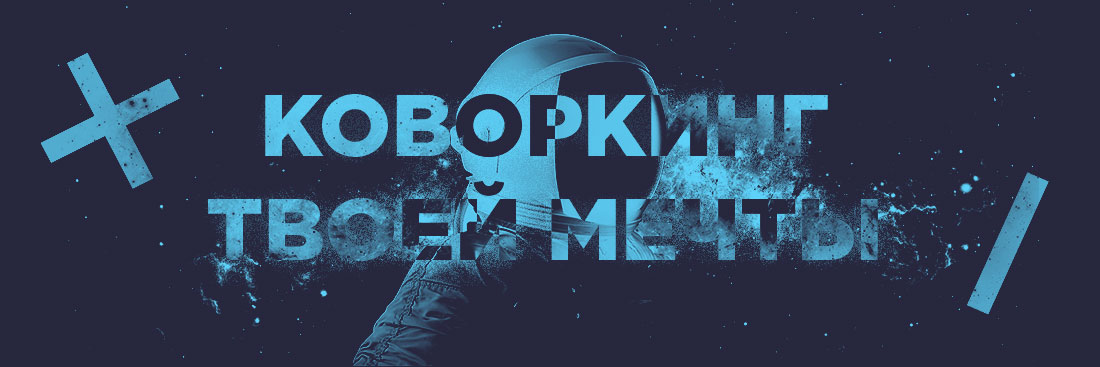
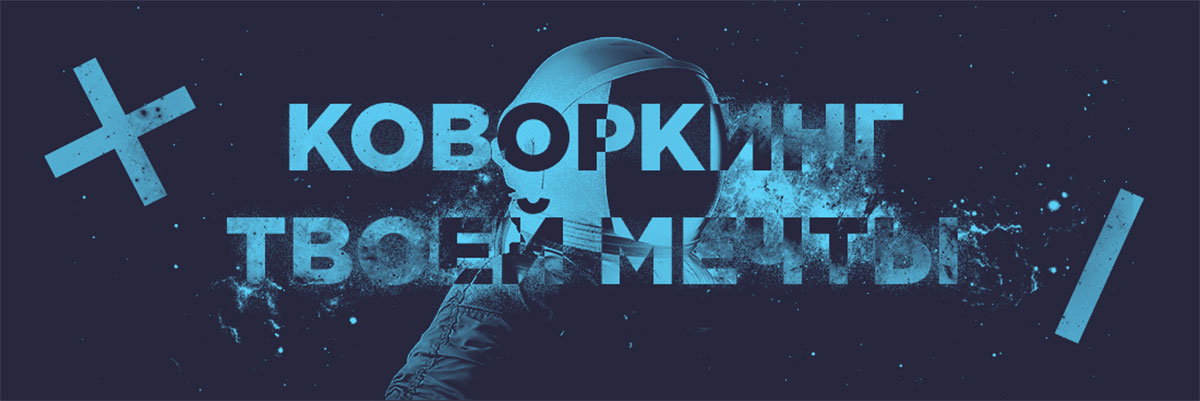
correct css

diff --git a/css/style.min.css b/css/style.min.css
@@ -1,1 +1,1 @@
-@import 'normalize.8.0.1.min.css';@font-face{font-family:'Roboto';src:url('../fonts/Roboto-Bold.woff2') format('woff2'),url('../fonts/Roboto-Bold.woff') format('woff');font-weight:bold;font-style:normal}@font-face{font-family:'OpenSans';src:url('../fonts/OpenSans-Bold.woff2') format('woff2'),url('../fonts/OpenSans-Bold.woff') format('woff');font-weight:bold;font-style:normal}@font-face{font-family:'Roboto';src:url('../fonts/Roboto-Light.woff2') format('woff2'),url('../fonts/Roboto-Light.woff') format('woff');font-weight:300;font-style:normal}@font-face{font-family:'GothamPro';src:url('../fonts/GothamPro-Light.woff2') format('woff2'),url('../fonts/GothamPro-Light.woff') format('woff');font-weight:300;font-style:normal}@font-face{font-family:'GothamPro';src:url('../fonts/GothamPro.woff2') format('woff2'),url('../fonts/GothamPro.woff') format('woff');font-weight:normal;font-style:normal}@font-face{font-family:'GothamPro';src:url('../fonts/GothamPro-LightItalic.woff2') format('woff2'),url('../fonts/GothamPro-LightItalic.woff') format('woff');font-weight:300;font-style:italic}@font-face{font-family:'GothamPro';src:url('../fonts/GothamPro-Bold.woff2') format('woff2'),url('../fonts/GothamPro-Bold.woff') format('woff');font-weight:bold;font-style:normal}html{-moz-osx-font-smoothing:grayscale;-webkit-font-smoothing:antialiased}body,ul,p,h1,h2,h3,h4{margin:0;padding:0}li{list-style-type:none}a{text-decoration:none;outline:none;color:inherit}.iconsheet{background-image:url(../image/spritesheet.png);background-repeat:no-repeat}html,body{height:100%}body{font-family:'GothamPro',sans-serif;font-size:14px;color:#221f1f}.wrapper{min-width:1200px;display:-webkit-box;display:flex;-webkit-box-orient:vertical;-webkit-box-direction:normal;flex-direction:column;height:100%}.container{width:1160px;margin:0 auto;padding-right:20px;padding-left:20px}.container-form{max-width:767px;padding:50px 70px;margin:0 auto;background:#f3f3f3;box-sizing:border-box}.header,.footer,.banner{background-color:#27273e}.header{padding-top:13px;padding-bottom:10px}.header>.container,.footer>.container{display:-webkit-box;display:flex;-webkit-box-pack:justify;justify-content:space-between}.center__block{display:-webkit-box;display:flex;-webkit-box-pack:justify;justify-content:space-between;padding-top:45px}.section-title{font-size:3.5em;font-weight:700;margin-bottom:50px;line-height:2rem}.sidebar{width:23.71%}.content{width:74.57%}.feedback{margin-bottom:50px}.footer{margin-top:auto;padding-top:13px;padding-bottom:15px}.intro{min-width:0;-webkit-box-pack:center;justify-content:center;-webkit-box-align:center;align-items:center;background:url(../image/intro_bg.jpg) center;background-size:cover}.intro__block{position:relative;text-align:center;opacity:0;-webkit-animation:intro .4s 1s ease;animation:intro .4s 1s ease;-webkit-animation-fill-mode:forwards;animation-fill-mode:forwards}.intro__logo{margin-bottom:30px}.intro__logo>img{display:block;width:100%;height:auto}.intro__link{display:block;padding:13px 20px;border:3px solid #ec1e79;color:#ec1e79;font-size:.8571em;letter-spacing:1px;font-weight:700;text-transform:uppercase;-webkit-transition:.25s all linear;transition:.25s all linear}.intro__link:hover{background:#ec1e79;color:#fff}@-webkit-keyframes intro{0%{opacity:.3;-webkit-transform:scale(.5, 0);transform:scale(.5, 0)}20%{-webkit-transform:scale(.8, .5);transform:scale(.8, .5)}40%{opacity:.6;-webkit-transform:rotate(-20deg);transform:rotate(-20deg)}60%{opacity:1;-webkit-transform:scale(1);transform:scale(1)}80%{-webkit-transform:rotate(5deg);transform:rotate(5deg)}100%{opacity:1;-webkit-transform:scale(1);transform:scale(1)}}@keyframes intro{0%{opacity:.3;-webkit-transform:scale(.5, 0);transform:scale(.5, 0)}20%{-webkit-transform:scale(.8, .5);transform:scale(.8, .5)}40%{opacity:.6;-webkit-transform:rotate(-20deg);transform:rotate(-20deg)}60%{opacity:1;-webkit-transform:scale(1);transform:scale(1)}80%{-webkit-transform:rotate(5deg);transform:rotate(5deg)}100%{opacity:1;-webkit-transform:scale(1);transform:scale(1)}}.contacts{font-style:normal;text-align:right;position:relative}.contacts__phone{color:#fff;font-size:1.49em;font-weight:700;display:block;line-height:1.4}.contacts__timework{position:relative;display:inline-block;color:rgba(236,30,121,0.7);font-family:'OpenSans',sans-serif;border-bottom:1px solid rgba(236,30,121,0.7);-webkit-transition:.2s all linear;transition:.2s all linear;cursor:pointer}.contacts__timework:hover{color:rgba(93,209,248,0.7);border-bottom:1px solid rgba(93,209,248,0.7)}.contacts__timework:hover .contacts__popup{right:0;opacity:1}.contacts__popup{opacity:0;position:absolute;top:100%;right:9999px;-webkit-transition:.4s opacity ease;transition:.4s opacity ease;cursor:default}.contacts__popup::before{content:'';display:block;height:26px}.contacts__popup-block{width:125px;background:#ffffff;z-index:5;padding:15px 9px;border-radius:3px;text-align:left;box-shadow:2.5px 4.3px 5px rgba(0,0,0,0.2)}.contacts__popup-block::before{content:'';display:inline-block;position:absolute;top:13px;right:0;width:0;height:0;border-style:solid;border-width:0 13px 14px 13px;border-radius:3px;border-color:transparent transparent #ffffff transparent}.contacts__popup-days{color:#ec1e79;font-weight:700;margin-bottom:10px}.contacts__popup-dinner{color:#221f1f}.banner__content{height:367px;background:url(../image/banner.jpg) center}.menu{padding-top:9px;margin-bottom:30px}.menu__list{display:-webkit-box;display:flex}.menu__item{color:#ec1e79;font-family:'GothamPro',sans-serif;font-size:.8571em;font-weight:700;text-transform:uppercase;margin-left:90px}.menu__item:first-child{margin-left:0}.menu__item.active>.menu__link{color:#221f1f;pointer-events:none}.menu__link{padding:5px 0 5px 40px;letter-spacing:1px;-webkit-transition:.3s color ease;transition:.3s color ease;background-image:url(../image/spritesheet.png);background-repeat:no-repeat}.menu__link:hover{color:#221f1f}.menu__link--triangle{background-position:-10px -212px}.menu__link--star{background-position:-10px -99px}.menu__link--wallet{background-position:-10px -373px}.menu__item.active>.menu__link--triangle,.menu__link--triangle:hover{background-position:-10px -247px}.menu__item.active>.menu__link--star,.menu__link--star:hover{background-position:-10px -137px}.menu__item.active>.menu__link--wallet,.menu__link--wallet:hover{background-position:-10px -409px}.menu--main .menu__item{color:#fff}.menu--main .menu__item.active>.menu__link{color:#ec1e79}.menu--main .menu__link:hover{color:#ec1e79}.menu--main .menu__link--triangle{background-position:-10px -282px}.menu--main .menu__link--star{background-position:-10px -175px}.menu--main .menu__link--wallet{background-position:-10px -445px}.menu--main .menu__item.active>.menu__link--triangle,.menu--main .menu__link--triangle:hover{background-position:-10px -212px}.menu--main .menu__item.active>.menu__link--star,.menu--main .menu__link--star:hover{background-position:-10px -99px}.menu--main .menu__item.active>.menu__link--wallet,.menu--main .menu__link--wallet:hover{background-position:-10px -373px}.features__list{display:-webkit-box;display:flex}.features__item{max-width:225px;padding:25px 20px 0;margin-bottom:80px;border:1px solid #e8e9ed}.features__head{text-transform:uppercase;text-align:center;margin-bottom:30px}.features__img{width:68px;height:68px;border-radius:50%;margin:0 auto;margin-bottom:35px;background:#27273e;overflow:hidden;display:-webkit-box;display:flex;-webkit-box-pack:center;justify-content:center;-webkit-box-align:center;align-items:center}.features__title{color:#212121;font-size:.7857em;font-weight:700;text-transform:uppercase;text-align:center;letter-spacing:3px;margin-bottom:30px}.features__subs,.features__plus{font-size:1.286em;margin-bottom:18px}.features__subs{text-align:center;line-height:1.5}.features__plus::before{content:"\2022";color:#c36;margin-right:30px}.review__item{display:-webkit-box;display:flex;-webkit-box-pack:justify;justify-content:space-between;margin-bottom:60px}.review__img{width:175px;height:175px;border-radius:50%;margin-right:20px;overflow:hidden;background:url(../image/comment0.jpg) center}.review__img>img{display:block;width:100%;height:auto}.review__block{width:75.14%;font-family:'Roboto',sans-serif}.review__date{display:block;color:#656464;font-size:1em;font-weight:300;margin-bottom:10px}.review__title,.review__text{color:#221f1f;font-size:1.286em}.review__title{font-weight:700;margin-bottom:15px}.review__text{font-weight:300;line-height:1.8}.pagination{display:-webkit-box;display:flex;-webkit-box-pack:center;justify-content:center;text-align:center;margin:0 auto 70px;font-family:'Roboto',sans-serif}.pagination__text{color:#656464;font-weight:300;padding:9px 10px}.pagination__navbar{color:#221f1f}.pagination__list,.pagination__item{display:inline-block}.pagination__control,.pagination__link{font-weight:700}.pagination__control{font-size:1.571em;padding:5px 10px}.pagination__control.disabled{opacity:.3;pointer-events:none}.pagination__list{font-size:0}.pagination__item{font-size:1rem}.pagination__item.active{background-color:#27273e;border-radius:3px;color:#ec1e79}.pagination__item.active>.pagination__link{pointer-events:none}.pagination__link{display:block;padding:3px 8px}.pagination__link:hover{color:#ec1e79}.info{color:#fff;font-weight:300}.info__text{width:260px;line-height:1.4}.info__link{font-weight:700;-webkit-transition:.2s all linear;transition:.2s all linear}.info__link:hover{color:#ec1e79}.info__link--school{border-bottom:1px solid rgba(255,255,255,0.3)}.info__link--school:hover{border-bottom:1px solid rgba(236,30,121,0.3)}.social{text-align:center}.social__title{margin-bottom:7px}.social__item{display:inline-block;margin-left:15px;border-radius:50%;-webkit-transition:.2s all linear;transition:.2s all linear}.social__item:first-child{margin-left:0}.social__item:hover{background:#ec1e79}.social__link{display:block;width:20px;height:20px;background-image:url(../image/spritesheet.png);background-repeat:no-repeat}.social__link--vk{background-position:-6px -342px}.social__link--fb{background-position:-3px -36px}.social__link--gplus{background-position:-7px -66px}.social__link--tw{background-position:-6px -314px}.social__link--email{background-position:-6px -4px}.sentence{font-size:1.286em;color:#fff;margin-bottom:55px;background:url(../image/discount_bg.jpg) repeat;padding:40px 10px;text-align:center}.sentence__text{font-weight:300;line-height:1.8}.sentence__discount{color:#ec1e79;font-weight:700}.feedback-form__row{display:-webkit-box;display:flex;-webkit-box-pack:justify;justify-content:space-between;-webkit-box-align:end;align-items:flex-end;margin-bottom:20px}.feedback-form__item{display:block;-webkit-box-flex:1;flex:1;margin-right:20px}.feedback-form__item:last-child{margin-right:0}.feedback-form__head{display:block;margin-bottom:10px}.feedback-form__input{width:100%;outline:none;background-color:white;border:1px solid transparent;border-radius:3px;box-sizing:border-box;padding:10px}.feedback-form__input::-webkit-input-placeholder{opacity:.5}.feedback-form__input:-ms-input-placeholder{opacity:.5}.feedback-form__input::placeholder{opacity:.5}.feedback-form__input--textarea{resize:none;height:90px}.feedback-form__input:focus{border:1px solid #ec1e79}.feedback-form__radio-block{display:-webkit-box;display:flex}.feedback-form__radio-item{width:55px;margin-right:15px;display:-webkit-box;display:flex;justify-content:space-around;-webkit-box-align:center;align-items:center}.feedback-form__radio-input{position:absolute;z-index:-1;opacity:0}.feedback-form__radio-input:checked+.feedback-form__radio-custom{border:1px solid #ec1e79}.feedback-form__radio-input:checked+.feedback-form__radio-custom>.feedback-form__radio-center{background:#ec1e79}.feedback-form__radio-custom{position:relative;width:18px;height:18px;border-radius:50%;border:1px solid #c9c9c9}.feedback-form__radio-custom>.feedback-form__radio-center{position:absolute;top:5px;left:5px;display:block;width:8px;height:8px;border-radius:50%}.feedback-form__btn{padding:16px 21px;background-color:#27273e;border-radius:3px;color:#fff;outline:none;border:0;cursor:pointer;font-size:.8571em;font-weight:700;letter-spacing:2px;text-transform:uppercase;-webkit-transition:.15s background-color linear;transition:.15s background-color linear}.feedback-form__btn:hover{background-color:#ec1e79}.feedback-form__btn:active{box-shadow:inset 0 0 5px #5e5e5e}.tariffs{margin-bottom:25px}.tariffs__block{display:-webkit-box;display:flex;flex-wrap:wrap;-webkit-box-pack:justify;justify-content:space-between}.tariffs__plane{width:273px;text-align:center;margin:0 0 45px}.tariffs__img{position:relative;width:252px;height:155px;border-radius:3px;overflow:hidden;margin:0 auto 25px}.tariffs__img>img{width:100%;height:auto}.tariffs__overlay{display:-webkit-box;display:flex;-webkit-box-pack:center;justify-content:center;-webkit-box-align:center;align-items:center;padding:10px;position:absolute;top:0;bottom:0;left:0;right:0;border-radius:3px;opacity:.85;background-color:#27273e;color:#fff;-webkit-transition:.25s opacity linear;transition:.25s opacity linear}.tariffs__overlay:hover{opacity:0}.tariffs__title{font-size:1.714em;font-weight:700;text-transform:uppercase;line-height:1.4em;color:#5dd1f8}.tariffs__vip{display:block;color:#ec1e79}.tariffs__head{font-size:1.286em;font-weight:700;margin-bottom:20px}.tariffs__text{line-height:1.4em}.partners{margin-bottom:40px;border:1px solid #e8e9ed;padding:30px 60px 0}.partners__head{text-transform:uppercase;margin-bottom:30px;text-align:center}.partners__list{display:-webkit-box;display:flex;flex-wrap:wrap;-webkit-box-align:center;align-items:center}.partners__item{margin-bottom:50px;width:290px}.partners__link{-webkit-filter:grayscale(1);filter:grayscale(1);-webkit-transition:.25s all linear;transition:.25s all linear}.partners__link:hover{-webkit-filter:grayscale(0);filter:grayscale(0)}
+@import 'normalize.8.0.1.min.css';@font-face{font-family:'Roboto';src:url('../fonts/Roboto-Bold.woff2') format('woff2'),url('../fonts/Roboto-Bold.woff') format('woff');font-weight:bold;font-style:normal}@font-face{font-family:'OpenSans';src:url('../fonts/OpenSans-Bold.woff2') format('woff2'),url('../fonts/OpenSans-Bold.woff') format('woff');font-weight:bold;font-style:normal}@font-face{font-family:'Roboto';src:url('../fonts/Roboto-Light.woff2') format('woff2'),url('../fonts/Roboto-Light.woff') format('woff');font-weight:300;font-style:normal}@font-face{font-family:'GothamPro';src:url('../fonts/GothamPro-Light.woff2') format('woff2'),url('../fonts/GothamPro-Light.woff') format('woff');font-weight:300;font-style:normal}@font-face{font-family:'GothamPro';src:url('../fonts/GothamPro.woff2') format('woff2'),url('../fonts/GothamPro.woff') format('woff');font-weight:normal;font-style:normal}@font-face{font-family:'GothamPro';src:url('../fonts/GothamPro-LightItalic.woff2') format('woff2'),url('../fonts/GothamPro-LightItalic.woff') format('woff');font-weight:300;font-style:italic}@font-face{font-family:'GothamPro';src:url('../fonts/GothamPro-Bold.woff2') format('woff2'),url('../fonts/GothamPro-Bold.woff') format('woff');font-weight:bold;font-style:normal}html{-moz-osx-font-smoothing:grayscale;-webkit-font-smoothing:antialiased}body,ul,p,h1,h2,h3,h4{margin:0;padding:0}li{list-style-type:none}a{text-decoration:none;outline:none;color:inherit}.iconsheet{background-image:url(../image/spritesheet.png);background-repeat:no-repeat}html,body{height:100%}body{font-family:'GothamPro',sans-serif;font-size:14px;color:#221f1f}.wrapper{min-width:1200px;display:-webkit-box;display:flex;-webkit-box-orient:vertical;-webkit-box-direction:normal;flex-direction:column;height:100%}.container{width:1160px;margin:0 auto;padding-right:20px;padding-left:20px}.container-form{max-width:767px;padding:50px 70px;margin:0 auto;background:#f3f3f3;box-sizing:border-box}.header,.footer,.banner{background-color:#27273e}.header{padding-top:13px;padding-bottom:10px}.header>.container,.footer>.container{display:-webkit-box;display:flex;-webkit-box-pack:justify;justify-content:space-between;-webkit-box-align:center;align-items:center}.center__block{display:-webkit-box;display:flex;-webkit-box-pack:justify;justify-content:space-between;padding-top:35px}.section-title{font-size:3.5em;font-weight:700;margin-bottom:82px;line-height:2rem}.section-title--form{margin-bottom:45px}.sidebar{width:23.71%}.content{width:74.57%}.feedback{margin-bottom:26px}.footer{margin-top:auto;padding-top:10px;padding-bottom:10px}.intro{min-width:0;-webkit-box-pack:center;justify-content:center;-webkit-box-align:center;align-items:center;background:url(../image/intro_bg.jpg) center;background-size:cover}.intro__block{position:relative;text-align:center;opacity:0;-webkit-animation:intro .4s 1s ease;animation:intro .4s 1s ease;-webkit-animation-fill-mode:forwards;animation-fill-mode:forwards}.intro__logo{margin-bottom:30px}.intro__logo>img{display:block;width:100%;height:auto}.intro__link{display:block;padding:13px 20px;border:3px solid #ec1e79;color:#ec1e79;font-size:.8571em;letter-spacing:1px;font-weight:700;text-transform:uppercase;-webkit-transition:.25s all linear;transition:.25s all linear}.intro__link:hover{background:#ec1e79;color:#fff}@-webkit-keyframes intro{0%{opacity:.3;-webkit-transform:scale(.5, 0);transform:scale(.5, 0)}20%{-webkit-transform:scale(.8, .5);transform:scale(.8, .5)}40%{opacity:.6;-webkit-transform:rotate(-20deg);transform:rotate(-20deg)}60%{opacity:1;-webkit-transform:scale(1);transform:scale(1)}80%{-webkit-transform:rotate(5deg);transform:rotate(5deg)}100%{opacity:1;-webkit-transform:scale(1);transform:scale(1)}}@keyframes intro{0%{opacity:.3;-webkit-transform:scale(.5, 0);transform:scale(.5, 0)}20%{-webkit-transform:scale(.8, .5);transform:scale(.8, .5)}40%{opacity:.6;-webkit-transform:rotate(-20deg);transform:rotate(-20deg)}60%{opacity:1;-webkit-transform:scale(1);transform:scale(1)}80%{-webkit-transform:rotate(5deg);transform:rotate(5deg)}100%{opacity:1;-webkit-transform:scale(1);transform:scale(1)}}.contacts{font-style:normal;text-align:right;position:relative}.contacts__phone{color:#fff;font-size:1.49em;font-weight:700;display:block;line-height:1.4}.contacts__timework{position:relative;display:inline-block;color:rgba(236,30,121,0.7);font-family:'OpenSans',sans-serif;border-bottom:1px solid rgba(236,30,121,0.7);-webkit-transition:.2s all linear;transition:.2s all linear;cursor:pointer}.contacts__timework:hover{color:rgba(93,209,248,0.7);border-bottom:1px solid rgba(93,209,248,0.7)}.contacts__timework:hover .contacts__popup{right:0;opacity:1}.contacts__popup{opacity:0;position:absolute;top:100%;right:9999px;-webkit-transition:.4s opacity ease;transition:.4s opacity ease;cursor:default}.contacts__popup::before{content:'';display:block;height:26px}.contacts__popup-block{width:125px;background:#ffffff;z-index:5;padding:15px 9px;border-radius:3px;text-align:left;box-shadow:2.5px 4.3px 5px rgba(0,0,0,0.2)}.contacts__popup-block::before{content:'';display:inline-block;position:absolute;top:13px;right:0;width:0;height:0;border-style:solid;border-width:0 13px 14px 13px;border-radius:3px;border-color:transparent transparent #ffffff transparent}.contacts__popup-days{color:#ec1e79;font-weight:700;margin-bottom:10px}.contacts__popup-dinner{color:#221f1f}.banner__content{height:385px;background:url(../image/banner.jpg) center}.menu{padding-top:9px;margin-bottom:35px}.menu__list{display:-webkit-box;display:flex}.menu__item{color:#ec1e79;font-family:'GothamPro',sans-serif;font-size:.8571em;font-weight:700;text-transform:uppercase;margin-left:90px}.menu__item:first-child{margin-left:0}.menu__item.active>.menu__link{color:#221f1f;pointer-events:none}.menu__link{padding:5px 0 5px 40px;letter-spacing:1px;-webkit-transition:.3s color ease;transition:.3s color ease;background-image:url(../image/spritesheet.png);background-repeat:no-repeat}.menu__link:hover{color:#221f1f}.menu__link--triangle{background-position:-10px -212px}.menu__link--star{background-position:-10px -99px}.menu__link--wallet{background-position:-10px -373px}.menu__item.active>.menu__link--triangle,.menu__link--triangle:hover{background-position:-10px -247px}.menu__item.active>.menu__link--star,.menu__link--star:hover{background-position:-10px -137px}.menu__item.active>.menu__link--wallet,.menu__link--wallet:hover{background-position:-10px -409px}.menu--main .menu__item{color:#fff}.menu--main .menu__item.active>.menu__link{color:#ec1e79}.menu--main .menu__link:hover{color:#ec1e79}.menu--main .menu__link--triangle{background-position:-10px -282px}.menu--main .menu__link--star{background-position:-10px -175px}.menu--main .menu__link--wallet{background-position:-10px -445px}.menu--main .menu__item.active>.menu__link--triangle,.menu--main .menu__link--triangle:hover{background-position:-10px -212px}.menu--main .menu__item.active>.menu__link--star,.menu--main .menu__link--star:hover{background-position:-10px -99px}.menu--main .menu__item.active>.menu__link--wallet,.menu--main .menu__link--wallet:hover{background-position:-10px -373px}.features__list{display:-webkit-box;display:flex}.features__item{max-width:225px;padding:25px 20px 0;margin-bottom:40px;border:1px solid #e8e9ed}.features__head{text-transform:uppercase;text-align:center;margin-bottom:33px;letter-spacing:1px}.features__img{width:68px;height:68px;border-radius:50%;margin:0 auto;margin-bottom:35px;background:#27273e;overflow:hidden;display:-webkit-box;display:flex;-webkit-box-pack:center;justify-content:center;-webkit-box-align:center;align-items:center}.features__title{color:#212121;font-size:.7857em;font-weight:700;text-transform:uppercase;text-align:center;letter-spacing:3px;margin-bottom:20px}.features__subs,.features__plus{font-size:1.286em}.features__subs{text-align:center;line-height:1.6;margin-bottom:10px}.features__sublist{margin-left:37px}.features__plus{margin-bottom:14px}.features__plus::before{content:"\2022";color:#c36;margin-right:30px}.review__item{display:-webkit-box;display:flex;-webkit-box-pack:justify;justify-content:space-between;margin-bottom:48px}.review__item:last-child{margin-bottom:35px}.review__img{width:175px;height:175px;border-radius:50%;margin-right:20px;overflow:hidden;background:url(../image/comment0.jpg) center}.review__img>img{display:block;width:100%;height:auto}.review__block{width:77%;font-family:'Roboto',sans-serif}.review__date{display:block;color:#656464;font-size:1em;font-weight:300;margin-bottom:8px}.review__title,.review__text{color:#221f1f;font-size:1.286em}.review__title{font-weight:700;margin-bottom:8px}.review__text{font-weight:300;line-height:1.7}.pagination{display:-webkit-box;display:flex;-webkit-box-pack:center;justify-content:center;text-align:center;margin:0 auto 51px;font-family:'Roboto',sans-serif}.pagination__text{color:#656464;font-weight:300;padding:9px 10px}.pagination__navbar{color:#221f1f}.pagination__list,.pagination__item{display:inline-block}.pagination__control,.pagination__link{font-weight:700}.pagination__control{font-size:1.571em;padding:5px 10px}.pagination__control.disabled{opacity:.3;pointer-events:none}.pagination__list{font-size:0}.pagination__item{font-size:1rem}.pagination__item.active{background-color:#27273e;border-radius:3px;color:#ec1e79}.pagination__item.active>.pagination__link{pointer-events:none}.pagination__link{display:block;padding:3px 8px}.pagination__link:hover{color:#ec1e79}.info{color:#fff;font-weight:300}.info__text{width:260px;line-height:1.4}.info__link{font-weight:700;-webkit-transition:.2s all linear;transition:.2s all linear}.info__link:hover{color:#ec1e79}.info__link--school{border-bottom:1px solid rgba(255,255,255,0.3)}.info__link--school:hover{border-bottom:1px solid rgba(236,30,121,0.3)}.social{text-align:center}.social__title{margin-bottom:7px;letter-spacing:-1.1px}.social__item{display:inline-block;margin-left:6px;border-radius:50%;-webkit-transition:.2s all linear;transition:.2s all linear}.social__item:first-child{margin-left:0}.social__item:hover{background:#ec1e79}.social__link{display:block;width:20px;height:20px;background-image:url(../image/spritesheet.png);background-repeat:no-repeat}.social__link--vk{background-position:-6px -342px}.social__link--fb{background-position:-3px -36px}.social__link--gplus{background-position:-7px -66px}.social__link--tw{background-position:-6px -314px}.social__link--email{background-position:-6px -4px}.sentence{font-size:1.286em;color:#fff;margin-bottom:24px;background:url(../image/discount_bg.jpg) repeat;padding:26px 10px;text-align:center}.sentence__text{font-weight:300;line-height:1.8}.sentence__discount{color:#ec1e79;font-weight:700}.feedback-form__row{display:-webkit-box;display:flex;-webkit-box-pack:justify;justify-content:space-between;-webkit-box-align:end;align-items:flex-end;margin-bottom:20px}.feedback-form__item{display:block;-webkit-box-flex:1;flex:1;margin-right:20px}.feedback-form__item:last-child{margin-right:0}.feedback-form__head{display:block;margin-bottom:10px}.feedback-form__input{width:100%;outline:none;background-color:white;border:1px solid transparent;border-radius:3px;box-sizing:border-box;padding:10px}.feedback-form__input::-webkit-input-placeholder{opacity:.5}.feedback-form__input:-ms-input-placeholder{opacity:.5}.feedback-form__input::placeholder{opacity:.5}.feedback-form__input--textarea{resize:none;height:90px}.feedback-form__input:focus{border:1px solid #ec1e79}.feedback-form__radio-block{display:-webkit-box;display:flex}.feedback-form__radio-item{width:55px;margin-right:15px;display:-webkit-box;display:flex;justify-content:space-around;-webkit-box-align:center;align-items:center}.feedback-form__radio-input{position:absolute;z-index:-1;opacity:0}.feedback-form__radio-input:checked+.feedback-form__radio-custom{border:1px solid #ec1e79}.feedback-form__radio-input:checked+.feedback-form__radio-custom>.feedback-form__radio-center{background:#ec1e79}.feedback-form__radio-custom{position:relative;width:18px;height:18px;border-radius:50%;border:1px solid #c9c9c9}.feedback-form__radio-custom>.feedback-form__radio-center{position:absolute;top:5px;left:5px;display:block;width:8px;height:8px;border-radius:50%}.feedback-form__btn{padding:16px 21px;background-color:#27273e;border-radius:3px;color:#fff;outline:none;border:0;cursor:pointer;font-size:.8571em;font-weight:700;letter-spacing:2px;text-transform:uppercase;-webkit-transition:.15s background-color linear;transition:.15s background-color linear}.feedback-form__btn:hover{background-color:#ec1e79}.feedback-form__btn:active{box-shadow:inset 0 0 5px #5e5e5e}.tariffs{margin-bottom:25px}.tariffs__block{display:-webkit-box;display:flex;flex-wrap:wrap;-webkit-box-pack:justify;justify-content:space-between}.tariffs__plane{width:273px;text-align:center;margin:0 0 45px}.tariffs__img{position:relative;width:273px;height:155px;border-radius:3px;overflow:hidden;margin:0 auto 25px}.tariffs__img>img{width:100%;height:auto}.tariffs__overlay{display:-webkit-box;display:flex;-webkit-box-pack:center;justify-content:center;-webkit-box-align:center;align-items:center;padding:10px;position:absolute;top:0;bottom:0;left:0;right:0;border-radius:3px;opacity:.85;background-color:#27273e;color:#fff;-webkit-transition:.25s opacity linear;transition:.25s opacity linear}.tariffs__overlay:hover{opacity:0}.tariffs__title{font-size:1.714em;font-weight:700;text-transform:uppercase;line-height:1.4em;color:#5dd1f8}.tariffs__vip{display:block;color:#ec1e79}.tariffs__head{font-size:1.286em;font-weight:700;margin-bottom:20px}.tariffs__text{line-height:1.4em}.partners{margin-bottom:20px;border:1px solid #e8e9ed;padding:30px 60px 0}.partners__head{text-transform:uppercase;margin-bottom:30px;text-align:center}.partners__list{display:-webkit-box;display:flex;flex-wrap:wrap;-webkit-box-pack:center;justify-content:center;-webkit-box-align:center;align-items:center}.partners__item{margin-bottom:35px}.partners__link{-webkit-filter:grayscale(1);filter:grayscale(1);-webkit-transition:.25s all linear;transition:.25s all linear}.partners__link:hover{-webkit-filter:grayscale(0);filter:grayscale(0)}

diff --git a/less/_features.less b/less/_features.less
@@ -6,14 +6,15 @@
 	&__item {
 		max-width: 225px;
 		padding: 25px 20px 0;
-		margin-bottom: 80px;
+		margin-bottom: 40px;
 		border: 1px solid #e8e9ed;
 	}
 
 	&__head {
 		text-transform: uppercase;
 		text-align: center;
-		margin-bottom: 30px;
+		margin-bottom: 33px;
+		letter-spacing: 1px;
 	}
 
 	&__img {
@@ -36,23 +37,31 @@
 		text-transform: uppercase;
 		text-align: center;
 		letter-spacing: 3px;
-		margin-bottom: 30px;
+		margin-bottom: 20px;
 	}
 
 	&__subs,
 	&__plus {
 		font-size: 1.286em; // 18px
-		margin-bottom: 18px;
 	}
 
 	&__subs {
 		text-align: center;
-		line-height: 1.5;
+		line-height: 1.6;
+		margin-bottom: 10px;
 	}
 
-	&__plus::before {
-		content: "\2022";
-		color: #c36;
-		margin-right: 30px;
+	&__sublist {
+		margin-left: 37px;
+	}
+
+	&__plus {
+		margin-bottom: 14px;
+
+		&::before {
+			content: "\2022";
+			color: #c36;
+			margin-right: 30px;
+		}
 	}
 }

diff --git a/main.html b/main.html
@@ -103,7 +103,7 @@
 								<p class="review__text">
 									Ключевым технологическим партнером GrowUp является дата-центр Миран, расположенный всего лишь в 500
 									метрах от здания, а значит, скорость интернета будет стабильной в любое время суток. Коворкинг
-									работает в формате 24/7. Используйте шкаф для хранения личных вещей.
+									работает в формате 24/7.
 								</p>
 							</div><!-- .review__block -->
 						</li>

diff --git a/less/_review.less b/less/_review.less
@@ -2,7 +2,11 @@
 	&__item {
 		display: flex;
 		justify-content: space-between;
-		margin-bottom: 60px;
+		margin-bottom: 48px;
+
+		&:last-child {
+			margin-bottom: 35px;
+		}
 	}
 
 	&__img {
@@ -21,7 +25,7 @@
 	}
 
 	&__block {
-		width: 75.14%; // 650px
+		width: 77%;
 		font-family: 'Roboto', sans-serif;
 	}
 
@@ -30,7 +34,7 @@
 		color: #656464;
 		font-size: 1em; // 14px
 		font-weight: 300;
-		margin-bottom: 10px;
+		margin-bottom: 8px;
 	}
 
 	&__title,
@@ -41,11 +45,11 @@
 
 	&__title {
 		font-weight: 700;
-		margin-bottom: 15px;
+		margin-bottom: 8px;
 	}
 
 	&__text {
 		font-weight: 300;
-		line-height: 1.8;
+		line-height: 1.7;
 	}
 }

diff --git a/less/_base.less b/less/_base.less
@@ -44,19 +44,24 @@ body {
 .footer > .container {
 	display: flex;
 	justify-content: space-between;
+	align-items: center;
 }
 
 .center__block {
 	display: flex;
 	justify-content: space-between;
-	padding-top: 45px;
+	padding-top: 35px;
 }
 
 .section-title {
 	font-size: 3.5em; // 49px
 	font-weight: 700;
-	margin-bottom: 50px;
+	margin-bottom: 82px;
 	line-height: 2rem;
+
+	&--form {
+		margin-bottom: 45px;
+	}
 }
 
 .sidebar {
@@ -68,11 +73,11 @@ body {
 }
 
 .feedback {
-	margin-bottom: 50px;
+	margin-bottom: 26px;
 }
 
 .footer {
 	margin-top: auto;
-	padding-top: 13px;
-	padding-bottom: 15px;
+	padding-top: 10px;
+	padding-bottom: 10px;
 }

diff --git a/less/_partners.less b/less/_partners.less
@@ -1,5 +1,5 @@
 .partners {
-	margin-bottom: 40px;
+	margin-bottom: 20px;
 	border: 1px solid #e8e9ed;
 	padding: 30px 60px 0;
 
@@ -12,12 +12,12 @@
 	&__list {
 		display: flex;
 		flex-wrap: wrap;
+		justify-content: center;
 		align-items: center;
 	}
 
 	&__item {
-		margin-bottom: 50px;
-		width: 290px;
+		margin-bottom: 35px;
 	}
 
 	&__link {

diff --git a/comments.html b/comments.html
@@ -170,7 +170,7 @@
 
 		<section class="feedback">
 			<div class="container-form">
-				<h2 class="section-title">Оставить отзыв</h2>
+				<h2 class="section-title section-title--form">Оставить отзыв</h2>
 
 				<form class="feedback-form">
 					<div class="feedback-form__row">

diff --git a/less/_sentence.less b/less/_sentence.less
@@ -1,9 +1,9 @@
 .sentence {
 	font-size: 1.286em; // 18px
 	color: #fff;
-	margin-bottom: 55px;
+	margin-bottom: 24px;
 	background: url(../image/discount_bg.jpg) repeat;
-	padding: 40px 10px;
+	padding: 26px 10px;
 	text-align: center;
 
 	&__text {

diff --git a/less/_social.less b/less/_social.less
@@ -3,11 +3,12 @@
 
 	&__title {
 		margin-bottom: 7px;
+		letter-spacing: -1.1px;
 	}
 
 	&__item {
 		display: inline-block;
-		margin-left: 15px;
+		margin-left: 6px;
 		border-radius: 50%;
 		transition: .2s all linear;
 

diff --git a/less/_pagination.less b/less/_pagination.less
@@ -2,7 +2,7 @@
 	display: flex;
 	justify-content: center;
 	text-align: center;
-	margin: 0 auto 70px;
+	margin: 0 auto 51px;
 	font-family: 'Roboto', sans-serif;
 
 	&__text {

diff --git a/less/_tariffs.less b/less/_tariffs.less
@@ -15,7 +15,7 @@
 
 	&__img {
 		position: relative;
-		width: 252px;
+		width: 273px;
 		height: 155px;
 		border-radius: 3px;
 		overflow: hidden;

diff --git a/less/_banner.less b/less/_banner.less
@@ -1,6 +1,6 @@
 .banner {
 	&__content {
-		height: 367px;
+		height: 385px;
 		background: url(../image/banner.jpg) center;
 	}
 }
